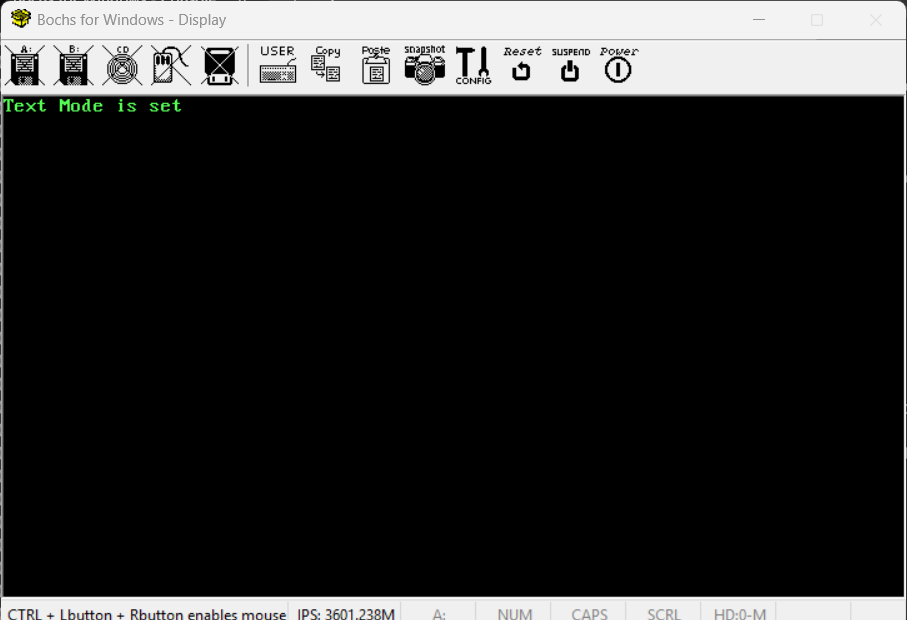
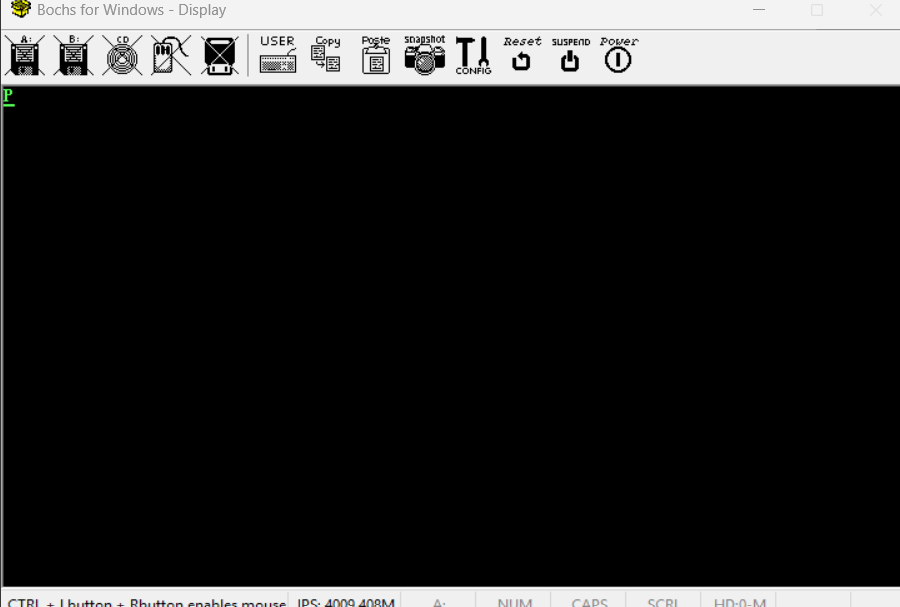
No.9: switch to protected mode done.

Changed region(s): [[0.0, 0.0, 1.0, 1.0]]

diff --git a/9/GDTSTRUCT.md b/9/GDTSTRUCT.md
@@ -1,0 +1,26 @@
+Descriptor table :
+
+- `**Index 1**` : 8 bytes		-------->>	
+    ```text
+    00 00 00 00 00 00 00 00         # First entry should be zero
+    ```
+
+- `**Index 2**` : 8 bytes		-------->>
+
+    ```text
+    
+    ff ff		Segment Size/limit lower bits
+
+    00 00		|----> lower 3 bytes(24 bits) will set base address to 0
+    00		    |__|
+            
+    9a		Attribute -> |P 1-bit|DPL 2-bits|S 1-bit|Type 4-bits (E C R A)|
+                            1	      00	   1		1010
+
+    cf  		Combination of attr and upper 4 bits of Segment size/limit
+                Upper 4-bits are attribs and lower 4 bits are upper bits of limit
+                |G|D|0|A|LIMIT|
+                 1 1   0 1111
+
+    00		Upper 8-bits of base address
+    ```
